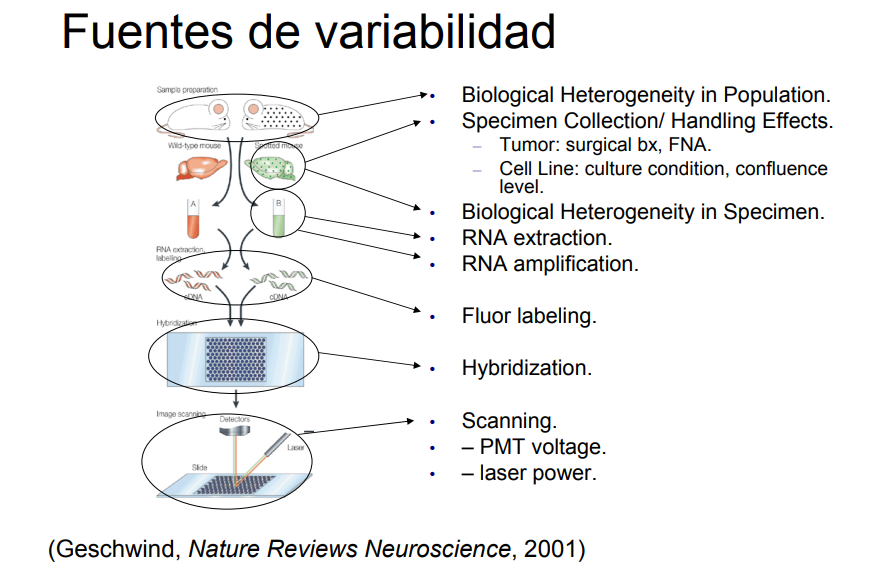
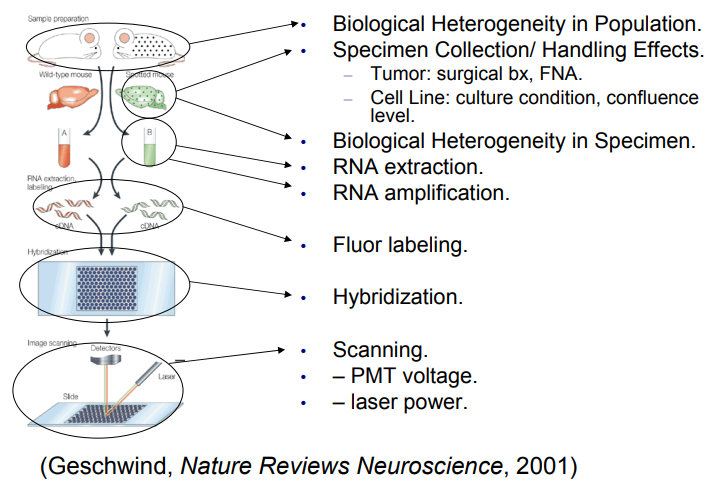
3

Changed region(s): [[0.0309, 0.0, 0.9902, 0.9776], [0.4641, 0.6721, 0.7117, 0.8554], [0.4332, 0.2138, 0.4641, 0.2444]]

diff --git a/R_and_microarrays/clase3.md b/R_and_microarrays/clase3.md
@@ -69,11 +69,11 @@ layout: false
 .right-column[
 <br><br>
    **Proteina** Secuencia de amino ácidos 
+<br>
     <img src="Protein_primary_structure.png" alt="proteina" style="width: 500px;"/> 
 
    Toda la información para producir las proteinas se encuentra almacenada en el **ADN (ácido desoxirribonucleico) ** el cual es una cadena de pequeñas moléculas llamadas **nucleótidos** y en el ADN existen 5 tipos de nucleótidos **Adenosina(A)**, **Citocina(C)**, **Guanina(G)** y **Timina(T)** a las cuales también se les conoce como **bases**.
 
-   EL ADN se puede encontrar en ~Doble cadena~, también conocida como **Doble hélice** o ~Cadena sencilla~. La doble cadena se forma cuando las bases complementarias **A-T** y **G-C** se enlazan quimicamente. 
 
    
 ]
@@ -90,9 +90,12 @@ layout: false
 
     <img src="Diferencias-entre-ADN-y-ARN.png" alt="proteina" style="width: 500px;"/> 
 
+   EL ADN se puede encontrar en ~Doble cadena~, también conocida como **Doble hélice** o ~Cadena sencilla~. La doble cadena se forma cuando las bases complementarias **A-T** y **G-C** se enlazan quimicamente. 
+
    EL **ARN (ácido ribonucleico)** es en gran medida igual al ADN pero en lugar de timina contiene un nucleótido similar, el **Uracilo(U)** y solo podemos encontrar ARN en forma de una sola cadena sencilla. Una de las funciones principales del ARN es ser un **intermediario entre el ADN y la proteina**.
 
    Es común utilizar **polynucleótido** para llamar al ADN o al ARN indistintamente. También hablamos de **cRNA** o **cDNA** cuando nos referimos a una cadena sintetisada estable de ARN o ADN.
+
 ]
 
 
@@ -104,10 +107,22 @@ layout: false
    ###  - Genes y síntesis de proteinas
 ]
 .right-column[
-<br><br>
+<br>
   **Un gen** puede ser definido como un tramo continuo de una molécula de ADN genómico a partir del cual se puede leer información codificada en forma de polynucleótidos de DNA. 
 
-<img src="DNA_cromosoma_gene.png" alt="cromosoma" style="width: 300px;"/> 
+<img src="DNA_cromosoma_gene.png" alt="cromosoma" style="width: 500px;"/> 
+
+]
+
+---
+
+layout: false
+.left-column[
+  ## Bases biológicas
+   ###  - Genes y síntesis de proteinas
+]
+.right-column[
+<br><br>
 
 La relación entre ADN y la secuencia de una proteina se encuentra en el **Dogma central de la biologia molecular**
 
@@ -126,27 +141,53 @@ layout: false
 
 1.En el proceso de **Transcripción** una cadena de ADN es copiada a una cadena complementaria de pre-mARN (o ARN nuclear).
 
-<img src="dogma_central_proteina.jpg" alt="dogma_central" style="width: 300px;"/>
+<img src="dogma_central_proteina.jpg" alt="dogma_central" style="width: 500px;"/>
 
-2.En el proceso de **empalme(splicing)** se quitan algunas secciones del pre-mARN llamadas **intrones**. Las secciones restantes se les llaman **exones** y son unidas una tras otra. El resultante es el mARN o ARN mensajero maduro.
-
-<img src="splicing.png" alt="dogma_central" style="width: 300px;"/>
 ]
 
 
 ---
-
 layout: false
 .left-column[
   ## Bases biológicas
    ###  - Genes y síntesis de proteinas
 ]
 .right-column[
+
+
+
+2.En el proceso de **empalme(splicing)** se quitan algunas secciones del pre-mARN llamadas **intrones**. Las secciones restantes se les llaman **exones** y son unidas una tras otra. El resultante es el mARN o ARN mensajero maduro.
+
+<img src="splicing.png" alt="dogma_central" style="width: 500px;"/>
+]
+
+
+---
+layout: false
+.left-column[
+  ## Bases biológicas
+   ###  - Genes y síntesis de proteinas
+]
+.right-column[
+<br>
 3.La **traducción** es el proceso de generar proteinas que se encuentran codigicadas en una cadena de mARN. Cada aminoacido se determina basado en tripletes de nuncleotidos llamados **codones**. A esto se le llama **código genético**. Existen 20 aminoacidos y 64 codones asi que hay redundancia. Los encargados de traducir el mRNA a proteina se les conoce como **RNA de transferencia (tRNA)**. 
+
 <img src="codigo-genetico.jpg"  alt="codigo genetico" style="width: 300px;"/>
 
-4.Las proteinas resultantes pueden ser modificadas de forma **post-tarduccional** e.g. agregando un azucar. 
 
+]
+
+
+---
+layout: false
+.left-column[
+  ## Bases biológicas
+   ###  - Genes y síntesis de proteinas
+]
+.right-column[
+<br><br>
+4.Las proteinas resultantes pueden ser modificadas de forma **post-tarduccional** e.g. agregando un azucar. 
+<br>
 Se solia creer que un 'un gen -una proteina', actualmente se sabe que esto no es así y que existe una gran complejidad en estos procesos.
 
 ]
@@ -163,7 +204,7 @@ layout: false
 <br><br><br><br>
 Concusión:
 
-**Dado que los genes se expresan transcribiendo y traduciendo su información en ARNm, que luego se utilizará para sintetizar proteínas, si somos capaces de averiguar qué ARNm y qué cantidad hay alrededor, deberíamos poder averiguar qué genes y con qué intensidad se encuentran. siendo expresado**
+**Dado que los genes se expresan transcribiendo y traduciendo su información en ARNm**, que luego se utilizará para sintetizar proteínas, si somos capaces de averiguar qué ARNm y qué cantidad hay alrededor, **deberíamos poder averiguar qué genes y con qué intensidad se encuentran siendo expresados**
 ]
 ---
 
@@ -173,9 +214,12 @@ layout: false
    ###  - Hibridización de ácidos nucleicos
 ]
 .right-column[
-<br><br><br><br>
+<br><br>
 La **hibridización** es el proceso por el cual dos secuencias en cadena simple de ADN o ARN complementarias se combinan en una molécula. Entre más parecidas sean las secuencias, se uniran más favorablemente. 
 Este proceso se ha utilizado por más de 40 años en los ~Southern blot~.
+<br>
+<img src="hybridize.jpg"  alt="hybridize" style="width: 300px;"/>
+
 ]
 
 ---
@@ -192,6 +236,18 @@ Un microarreglo consiste en:
  - Superficie solida de vidrio, plastico y otro material
  - Secuencias de polynucleótidos fijadas llamados **sondas (probs)** 
 
+<img src="gene_chip.jpg"  alt="chip" style="width: 300px;"/>
+
+]
+
+---
+layout: false
+.left-column[
+  ##  Microarreglos
+   ### - Tecnologia
+]
+.right-column[
+
 Existen de dos tipos:
  - **microarreglos de cADN (spotted)**. Las sondas son sintetizadas independientemente y se unen a la superficie mecánicamente. 
 
@@ -200,7 +256,38 @@ Existen de dos tipos:
 ]
 
 ---
+layout: false
+.left-column[
+  ##  Microarreglos
+   ### - Tecnologia
+]
+.right-column[
 
+- **microarreglos de cADN (spotted)**
+ - Ventajas
+  - Economicos
+  - Flexibles (cualquier secuencia)
+  - Elevada intensidad de señal (Secuencias largas)
+ - Desventajas
+  - Baja reproducibilidad
+  - Hibridación cruzada (Baja especificidad)
+  - Elevada manipulación manual
+
+
+- **Chips de oligonucléotidos**
+ - Ventajas
+  - Fabricación rápida y robusta
+  - Elevada reproducibilidad
+  - Elevada especificidad
+  - Se miden muchas sondas/genes
+ - Desventajas
+  - Requiere equipo especializado
+  - Costoso
+  - Poca flexibilidad
+
+]
+
+---
 layout: false
 .left-column[
   ##  Microarreglos
@@ -221,12 +308,16 @@ Se puede realizar de dos maneras:
 layout: false
 .left-column[
   ##  Microarreglos
-   ### - Comparación de chips
+   ### - Medición de la expresión
 ]
 .right-column[
 
+<br>
+<br>
 
-<img src="comparacion_chips.png" alt="comparacion_chips" style="width: 600px;"/>
+<img src="microarrays_one_two_colors.png"  alt="microarreglos" style="width: 600px;"/>
+
+
 ]
 ---
 
@@ -238,12 +329,25 @@ layout: false
 .right-column[
 
 
-<img src="microarrays_one_two_colors.png"  alt="microarreglos" style="width: 300px;"/>
-
 Los microarreglos se cuantifican por la **intensidad de la fluorecencia** que se captura en una imagen (fotografia). La imagen se procesa a una matriz en un proceso computacional que "cuantifica" los microarreglos. 
 
-<img src="quantification_color_cDNA.png" alt="microarreglos" style="width: 300px;"/>
+<img src="quantification_color_cDNA.png" alt="microarreglos" style="width: 600px;"/>
 ]
+---
+
+layout: false
+.left-column[
+  ##  Microarreglos
+   ### - Fuentes de Variabilidad
+]
+.right-column[
+
+<br>
+<img src="variabilidad_experimental.png" alt="variabilidadexp" style="width: 700px;"/>
+
+]
+
+
 ---
 
 layout: false
@@ -252,27 +356,14 @@ layout: false
    ### - Variabilidad
 ]
 .right-column[
-
-
-<img src="variabilidad_experimental.png" alt="variabilidadexp" style="width: 600px;"/>
-
-]
-
-
----
-
-layout: false
-.left-column[
-  ##  Microarreglos
-   ### - Variabilidad
-]
-.right-column[
-
+<br><br>
 Existen dos tipos de variabilidad en los microarreglos:
- - Sistemática. Aquella que afecta de manera similar a todas las mediciones
+
+ - **Sistemática**. Aquella que afecta de manera similar a todas las mediciones
    - Cantidad de material disponible
    - Instrumental de laboratorio
- - Aleatoria. Aquella que afecta distintamente cada componente del experimento
+
+ - **Aleatoria**. Aquella que afecta distintamente cada componente del experimento
    - Cantidad de material
    - Eficiencia de los procedimientos (Estandarización)
 
@@ -290,10 +381,12 @@ layout: false
 ]
 .right-column[
 
-Cada tipo de variabilidad se afronta de manera distinta
- - Sistemática
+Cada tipo de variabilidad se ~afronta de manera distinta~
+
+ - **Sistemática**
    - Se estima la corrección a partir de una normalización
- - Aleatoria
+
+ - **Aleatoria**
    - Suponemos modelos de error y recurrimos al **diseño experimental** para controlarla y **inferencia estadística** para extraer conclusiones
 
 Todo esto se integra en el flujo de trabajo o ciclo de vida de un experimento con microarreglos (pipeline)
@@ -310,7 +403,7 @@ layout: false
 ]
 .right-column[
 
-<img src="pipeline.png" alt="microarreglos" style="width: 600px;"/>
+<img src="pipeline.png" alt="microarreglos" style="width: 800px;"/>
 
 ]
 
@@ -323,7 +416,7 @@ layout: false
 ]
 .right-column[
 
-<img src="control_calidad.png" alt="microarreglos" style="width: 600px;"/>
+<img src="control_calidad.png" alt="microarreglos" style="width: 700px;"/>
 
 ]
 
@@ -336,7 +429,7 @@ layout: false
 ]
 .right-column[
 
-<img src="normalizacion.png" alt="microarreglos" style="width: 600px;"/>
+<img src="normalizacion.png" alt="microarreglos" style="width: 700px;"/>
 
 ]
 
@@ -349,13 +442,19 @@ layout: false
    ### - Tipos de análisis
 ]
 .right-column[
+<br>
 
+<br>
 Los microarreglos pueden responder distintas preguntas de investigación
 
  - Encontrar **genes diferencialmente expresados** en dos o más condiciones o a lo largo del tiempo
+
  - **Identificar subtipos** de una poblacion
+
  - Definir **Patrones de expresión** caracteristicos
+
  - **Predecir la respuesta** o **clasificar individuos**
+
  - **Identificar genes co-regulados** o **co-expresion**
 
 
@@ -369,15 +468,20 @@ layout: false
    ### - Métodos de análisis
 ]
 .right-column[
+<br>
+<br>
 
 Por cada problema existen múltiples métodos
 
  - **Modelos lineales**, pruebas t-student para expresión diferencial
+
  - **Análisis de agrupamiento** o conglomerados ("**clustering**") para encontrar patrones de corregulación o coexpresión
+
  - **Métodos de clasificación** tradicionales (kNN, LDA) y modernos (SVM, PAM) para construir predictores.
+
  - **Análisis basados en Ontologia de Genes** (GSEA) para buscar significancia biológica
 
-<img src="conglomerados.png" alt="microarreglos" style="width: 300px;"/>
+<img src="conglomerados.png" alt="microarreglos" style="width: 500px;"/>
 
 ]
 
@@ -401,7 +505,7 @@ layout: false
   - Estimación de tasa de falsos positivos (FDR) 
 
 
-<img src="diferencial.png" alt="microarreglos" style="width: 300px;"/>
+<img src="diferencial.png" alt="microarreglos" style="width: 500px;"/>
 ]
 
 
@@ -434,7 +538,7 @@ layout: false
   - Estudiar clases enriquecidas
   - Agrupar genes por similitud funcional
 
-<img src="GO.png" alt="microarreglos" style="width: 300px;"/>
+<img src="GO.png" alt="microarreglos" style="width: 500px;"/>
 ]
 ---
 
